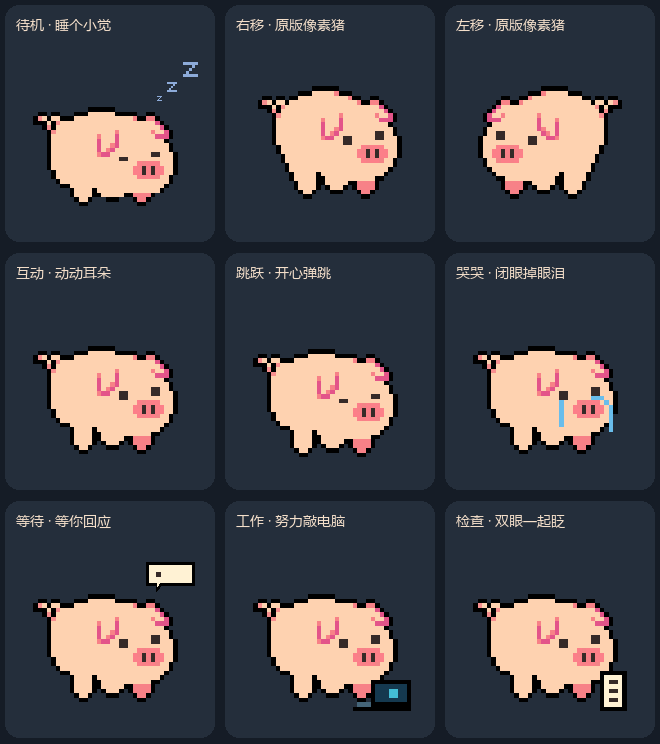
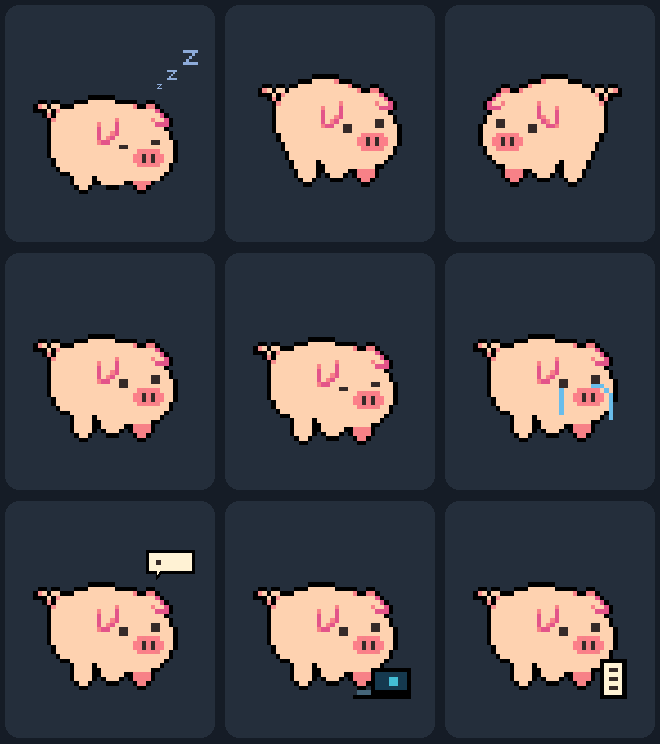
猪猪宠物

diff --git a/scripts/build_pet.py b/scripts/build_pet.py
@@ -103,9 +103,8 @@ for t in range(0,8400,70):
     for r in range(9):
         x=(r%3)*220; y=(r//3)*248
         d.rounded_rectangle((x+5,y+5,x+214,y+241),radius=14,fill='#242e3b')
-        d.text((x+16,y+15),LABELS[r],font=small,fill='#f4dfca')
         f=allframes[r][active_index(t,DURATIONS[r])]
-        board.paste(f,(x+14,y+32),f)
+        board.paste(f,(x+14,y+20),f)
     gallery.append(board)
 gallery[0].save(PRE/'all-actions.gif',save_all=True,append_images=gallery[1:],duration=70,loop=0,optimize=True)
 gallery[0].save(PRE/'cover.png')

diff --git a/README.md b/README.md
@@ -1,88 +1,1 @@
-# codex咕咕猪宠物
-
-一只住在 Codex 桌面里的像素咕咕猪。应用中显示为 **咕咕猪 · 像素搭子**。
-
-以《像素猪.gif》为底稿逐像素制作，保留原图的鼻子、方眼尺寸、耳朵、尾巴和纯色配色。包含睡觉、移动、动耳、跳跃、哭泣、等待、工作和检查清单九类动作，以及 16 个观察方向。
-
-![咕咕猪九类动作预览](previews/all-actions.gif)
-
-## 预览
-
-双击 `preview.html`，可以切换 9 类动作、暂停检查单帧、切换深浅背景，并用鼠标测试 16 个观察方向。页面无需联网。
-
-`previews/all-actions.gif` 是同时播放 9 类动作的动画总览。
-
-## 安装
-
-1. 从 [Releases 下载最新安装包](https://github.com/zbzbdzb/codex-gugu-pig-pet/releases/latest)，解压 ZIP。
-2. Windows 用户双击解压后的 `安装.cmd`。
-3. 打开 Codex 设置 → Pets/宠物，选择 **咕咕猪 · 像素搭子**。
-
-默认安装 v2 版本；安装器使用 `CODEX_HOME`，未设置时使用 `%USERPROFILE%\.codex`。无需安装 Python 或 Node.js 即可使用打包好的宠物。
-
-安装只复制两个资源文件到 `pets/gugu-pig/`，不会修改 Codex 程序、插件或当前宠物选择。双击安装脚本更新同名宠物时，会先把旧资源备份到 Codex 数据目录的 `pet-backups/gugu-pig/时间戳/`。直接调用 PowerShell 脚本时，更新需要带 `-Update`。
-
-在 Codex 设置 → Pets/宠物中选择 **咕咕猪 · 像素搭子**。如果列表未刷新，重新打开设置或稍后重启 Codex。
-
-手动安装：把 `dist/gugu-pig` 文件夹复制到你的 Codex 数据目录下的 `pets` 文件夹。
-
-旧客户端可以使用 `dist/gugu-pig-v1`，或执行：
-
-```powershell
-powershell -NoProfile -ExecutionPolicy Bypass -File .\install.ps1 -Legacy
-```
-
-## 内容
-
-| 动作 | 帧数 | 设计 |
-| --- | ---: | --- |
-| idle | 6 | 闭眼睡觉、轻微呼吸，短腿蜷起，右上方像素 zzz 轻轻浮动 |
-| running-right | 8 | 直接使用用户原始像素猪 GIF 八帧 |
-| running-left | 8 | 原始八帧的逐帧镜像 |
-| waving | 4 | 动动耳朵：原地站稳，耳尖轻轻收拢再放松，双眼同步眨动 |
-| jumping | 5 | 蓄力眯眼、起跳与腾空时成对的小弧形笑眼、下降睁眼、落地眯眼 |
-| failed | 8 | 两只眼睛中性眨眼，双侧流泪，没有笑眼 |
-| waiting | 6 | 安静站立、双眼眨动，头顶气泡内省略号依次出现 |
-| running | 6 | 小电脑前认真工作 |
-| review | 6 | 检查小清单，只让两眼同步眨眼，不加笑眼等表情 |
-| 观察方向 | 16 | 从向上开始顺时针排列 |
-
-v2 共 73 个有效帧，透明 WebP 图集 1536×2288，每格 192×208；未使用格完全透明。v1 保留 57 个动作帧、图集 1536×1872。
-
-播放节奏按本机 Codex 26.915.4065.0 资源代码核对。应用的 idle 时长是原始动画时长的 6 倍；其他动作由应用控制触发和回到待机。本项目预览默认循环选中动作，方便检查，不代表应用会持续执行该动作。
-
-## 制作与检查
-
-- 原图可无损还原成 40×35 像素网格。`scripts/pixel_animation.py` 以原图第一帧为共用底稿，只修改顶部背线、后侧轮廓、双眼区域和指定动作部位。背线保留浅缓的阶梯弧度，高处降低一格，不使用横向截平。后侧在 x=6..11、y=18..25 的小范围内调整为臀部略鼓、腿根内收，避免连续直斜线。
-- 左右移动直接抽取原始 8 帧，经统一最近邻缩放后组装，左移只做镜像；保留用户指定的原始步态。
-- 眼睛保持原图 2×2 的尺寸和一高一低的位置；鼻子和尾巴为受保护区域。耳朵仅在“动动耳朵”中让耳尖轻动一格。站立保留三条原图可见腿；睡觉只缩短腿部两格，沿用原图腿部侧边、脚底和粉色前蹄，使腹部自然衔接。眼泪绕过鼻子，电脑和清单放在脸下方。
-- 所有角色帧来自同一份原始像素素材，通过代码局部编辑；构建过程不依赖图像生成服务。
-- 输出处理：统一最近邻缩放、对齐、组装和无损 WebP 导出；身体保持原图纯色，不添加渐变。
-- 格式检查：73 帧完整、透明边缘、未使用格、边界安全区、各动作存在帧变化、WebP 无损往返一致。
-- `validation.json` 保存格式检查；`validation-pixels.json` 检查原图网格无损提取、鼻子/尾巴保持一致、除动耳动作外耳朵保持原样，以及检查动作只改变双眼区域。`validation-installation.json` 保存安装器测试结果。详见 [测试记录](TESTING.md)。原生 Codex 窗口的自动状态触发尚未进行 UI 自动化验证。
-- 观察方向为离散姿态，部分相邻角度差异较小；左右换向以角色转向表现。
-
-## 素材来源
-
-基础素材：《像素猪.gif》，由项目委托者提供，保存在 `sources/` 中以便重新构建。
-
-动作研究参考：《跳跳猪》《哭哭猪》《你已笨哭猪》，以及 [PigHub](https://pighub.top/) 的《快跑猪》《咕咕猪干活》《猪瞌睡》《疑惑猪》《猪开心》。这些研究图片不随仓库分发。当前角色像素均来自基础 GIF，电脑、清单、泪滴及提示符号由代码绘制。
-
-来源索引：`sources/manifest.json`。网站对应的开源图库：[BadFish-HSrui/PigHub-DB](https://github.com/BadFish-HSrui/PigHub-DB)。格式参考：[pet-creator-studio](https://github.com/lujunnanm/pet-creator-studio) 与本机应用资源。
-
-本项目是个人桌面使用的衍生宠物制作，不代表 PigHub 或角色作者官方作品；未将网站源代码许可视为角色素材授权。
-
-## 重新构建
-
-在 Windows 上安装 Python 3.10+ 和 Node.js：
-
-```powershell
-python -m pip install -r requirements.txt
-python scripts/build_pet.py
-python scripts/make_preview.py
-node scripts/verify_preview.cjs
-python scripts/verify_installation.py
-python scripts/package_release.py
-```
-
-中文预览标签使用 Windows 自带的微软雅黑字体。`dist/` 包含安装资源，`previews/` 包含展示图；构建时生成的独立帧写入 `frames/`。GitHub Release ZIP 面向直接安装，仓库源代码面向自行修改和重新构建。
+![](previews/all-actions.gif)
